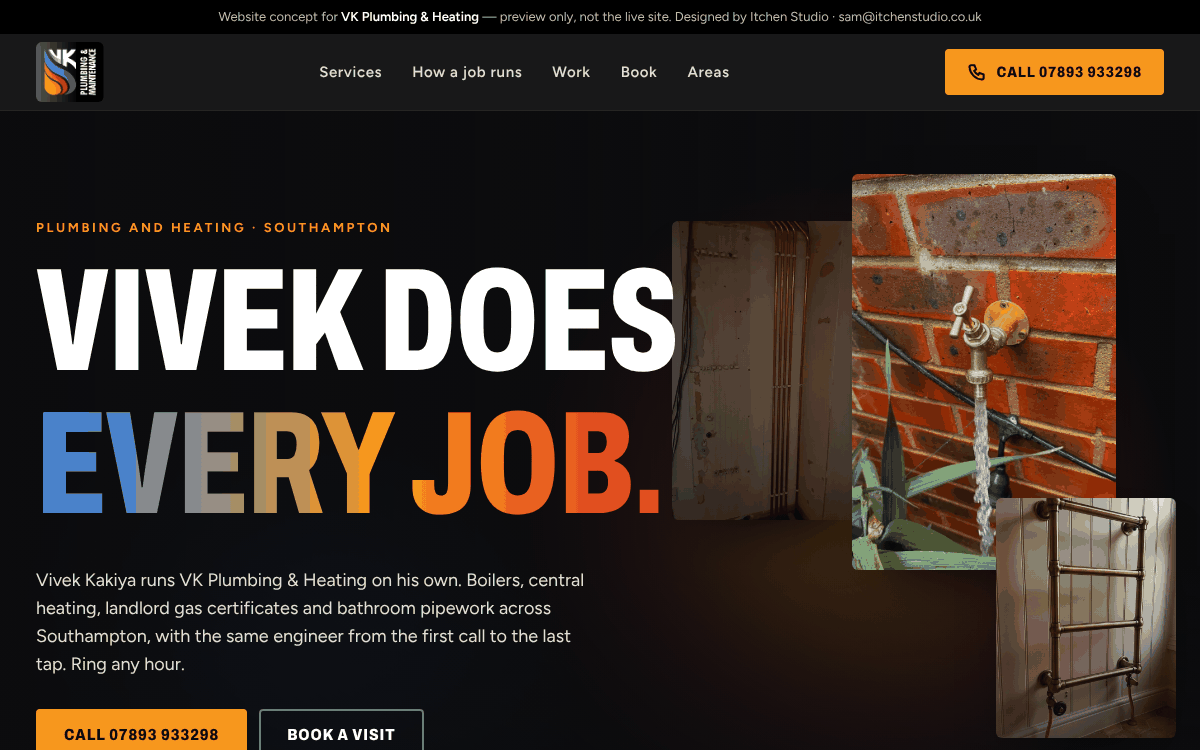
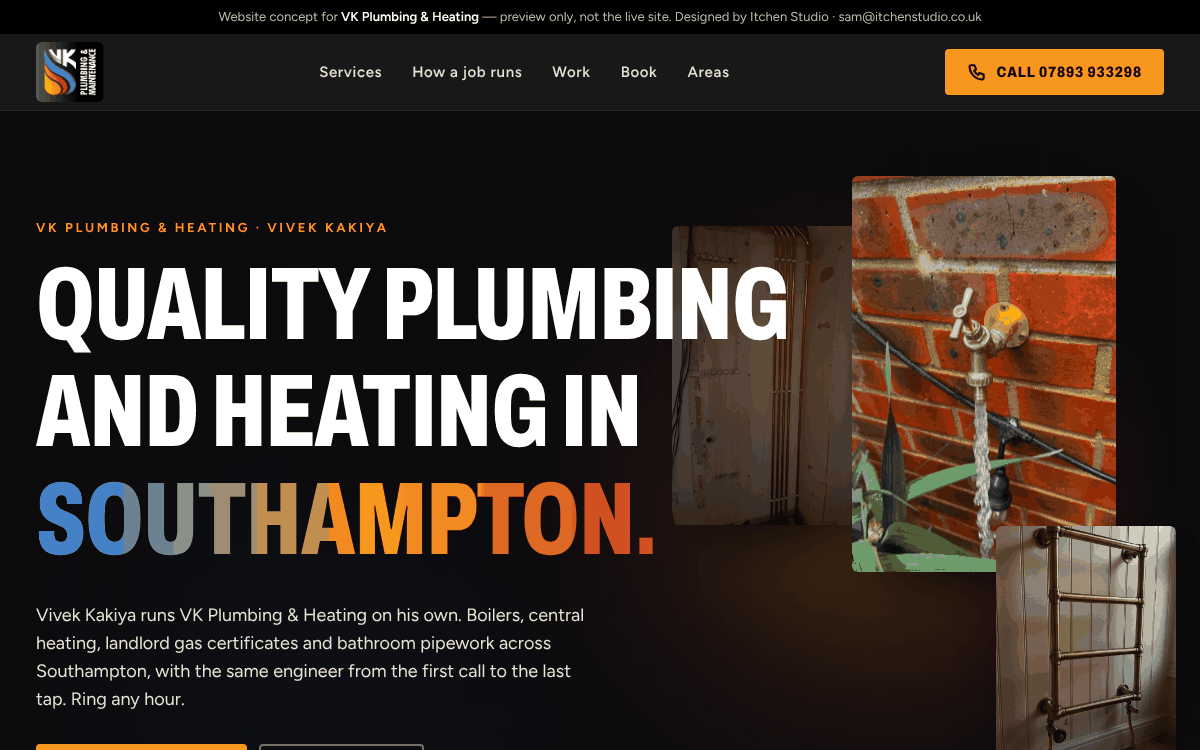
Mock-up: VK Plumbing & Heating v3
Claude-Session: https://claude.ai/code/session_01McDHMUuHo75vrRWWRQLPVd

diff --git a/vk-plumbing-heating-6oiipg/index.html b/vk-plumbing-heating-6oiipg/index.html
@@ -9,7 +9,7 @@ Signature scroll moment: "The pipe run" — pinned scene. A copper pipe draws it
 Interactive feature: booking drawer-style wizard — what do you need (boiler service, landlord gas safety certificate, repair, bathroom or kitchen plumbing, emergency) > postcode (checked against SO14 to SO40) > example day and time (next 14 days, some taken) > details > confirmation reference. Sends nothing.
 Headline shortlist: 1 One engineer, every job. / 2 Vivek does every job. / 3 Start to finish, one pair of hands. / 4 Pipes to polish. / 5 From first fix to final tap. / 6 Answered by the man who fixes it. / 7 Same engineer, every stage. / 8 Hot water, any hour. / 9 One man, one number. / 10 Southampton pipework, personally.
 Crossed out: 1 and 7 (a generic sole trader could say it), 3 (too long and vague), 4 (corny), 6 (clumsy), 8 (any boiler firm), 9 (generic), 10 ("personally" is filler).
-Pick: "Vivek does every job." — four words, names the owner and says the one thing the business is about; no other firm in Southampton can print it.
+Pick (v2): "Vivek does every job." Replaced in v3 at Sam's request with his own line: "Quality Plumbing and Heating in Southampton." (six words). The one-engineer idea carries on in the lead paragraph, the pipe-run scene and the booking wizard.
 -->
 <html lang="en-GB">
 <head>
@@ -80,7 +80,7 @@ h3{margin:0}
 .hero .p3{right:2%;bottom:20%;width:min(15vw,220px);aspect-ratio:3/4}
 .hero .shade{position:absolute;inset:0;z-index:-1;background:linear-gradient(90deg,#0c0c0ef5 0%,#0c0c0eb8 46%,#0c0c0e26 78%,#0c0c0e00 100%),linear-gradient(0deg,#0c0c0ef2 0%,#0c0c0e00 42%)}
 .hero .wrap{position:relative;width:100%;padding-block:110px 40px}
-.hero h1{font-size:clamp(58px,12.2vw,200px);margin:20px 0 0;max-width:12em}
+.hero h1{font-size:clamp(52px,8.6vw,150px);margin:20px 0 0;max-width:12em;line-height:.98}
 .hero h1 .ln{display:block;overflow:hidden;padding-bottom:.06em}
 .hero h1 .ln>span{display:inline-block}
 .hero h1 .fl{background:linear-gradient(90deg,var(--blue) 0%,var(--orange) 55%,var(--red) 100%);-webkit-background-clip:text;background-clip:text;color:transparent;-webkit-text-fill-color:transparent}
@@ -92,7 +92,7 @@ h3{margin:0}
 .hero .lbl{color:var(--orange)}
 html.motion:not(.ready) .hero h1 .ln>span{transform:translateY(105%)}
 html.motion:not(.ready) [data-intro]{opacity:0}
-@media (max-width:900px){.hero .p1{display:none}.hero .p2{right:-6%;top:5%;width:60vw}.hero .p3{right:46%;top:12%;bottom:auto;width:32vw}.hero .shade{background:linear-gradient(0deg,#0c0c0efa 0%,#0c0c0ee8 50%,#0c0c0e30 100%)}.hero h1{font-size:17.5vw}.hero .wrap{padding-top:230px}}
+@media (max-width:900px){.hero .p1{display:none}.hero .p2{right:-6%;top:5%;width:60vw}.hero .p3{right:46%;top:12%;bottom:auto;width:32vw}.hero .shade{background:linear-gradient(0deg,#0c0c0efa 0%,#0c0c0ee8 50%,#0c0c0e30 100%)}.hero h1{font-size:12.2vw}.hero .wrap{padding-top:230px}}
 
 /* ribbon */
 .strip{background:var(--orange);color:var(--ink);overflow:hidden;white-space:nowrap;padding:15px 0;font:800 20px/1 var(--display);font-stretch:70%;text-transform:uppercase;letter-spacing:.05em}
@@ -294,8 +294,8 @@ html:not(.motion) .stage{opacity:1}
   </div>
   <div class="shade"></div>
   <div class="wrap">
-    <p class="lbl" data-intro>Plumbing and heating · Southampton</p>
-    <h1 class="cond" id="h1"><span class="ln"><span>Vivek does</span></span><span class="ln"><span class="fl">every job.</span></span></h1>
+    <p class="lbl" data-intro>VK Plumbing &amp; Heating · Vivek Kakiya</p>
+    <h1 class="cond" id="h1"><span class="ln"><span>Quality Plumbing</span></span><span class="ln"><span>and Heating in</span></span><span class="ln"><span class="fl">Southampton.</span></span></h1>
     <p class="lead" data-intro>Vivek Kakiya runs VK Plumbing &amp; Heating on his own. Boilers, central heating, landlord gas certificates and bathroom pipework across Southampton, with the same engineer from the first call to the last tap. Ring any hour.</p>
     <div class="ctas" data-intro><a class="btn" href="tel:07893933298">Call 07893 933298</a><a class="btn ghost" href="#quote">Book a visit</a></div>
     <p class="proof" data-intro><span><b>9.9/10</b> on Checkatrade</span><span><b>165</b> reviews</span><span><b>2020</b> trading since</span><span>City &amp; Guilds L2</span></p>
